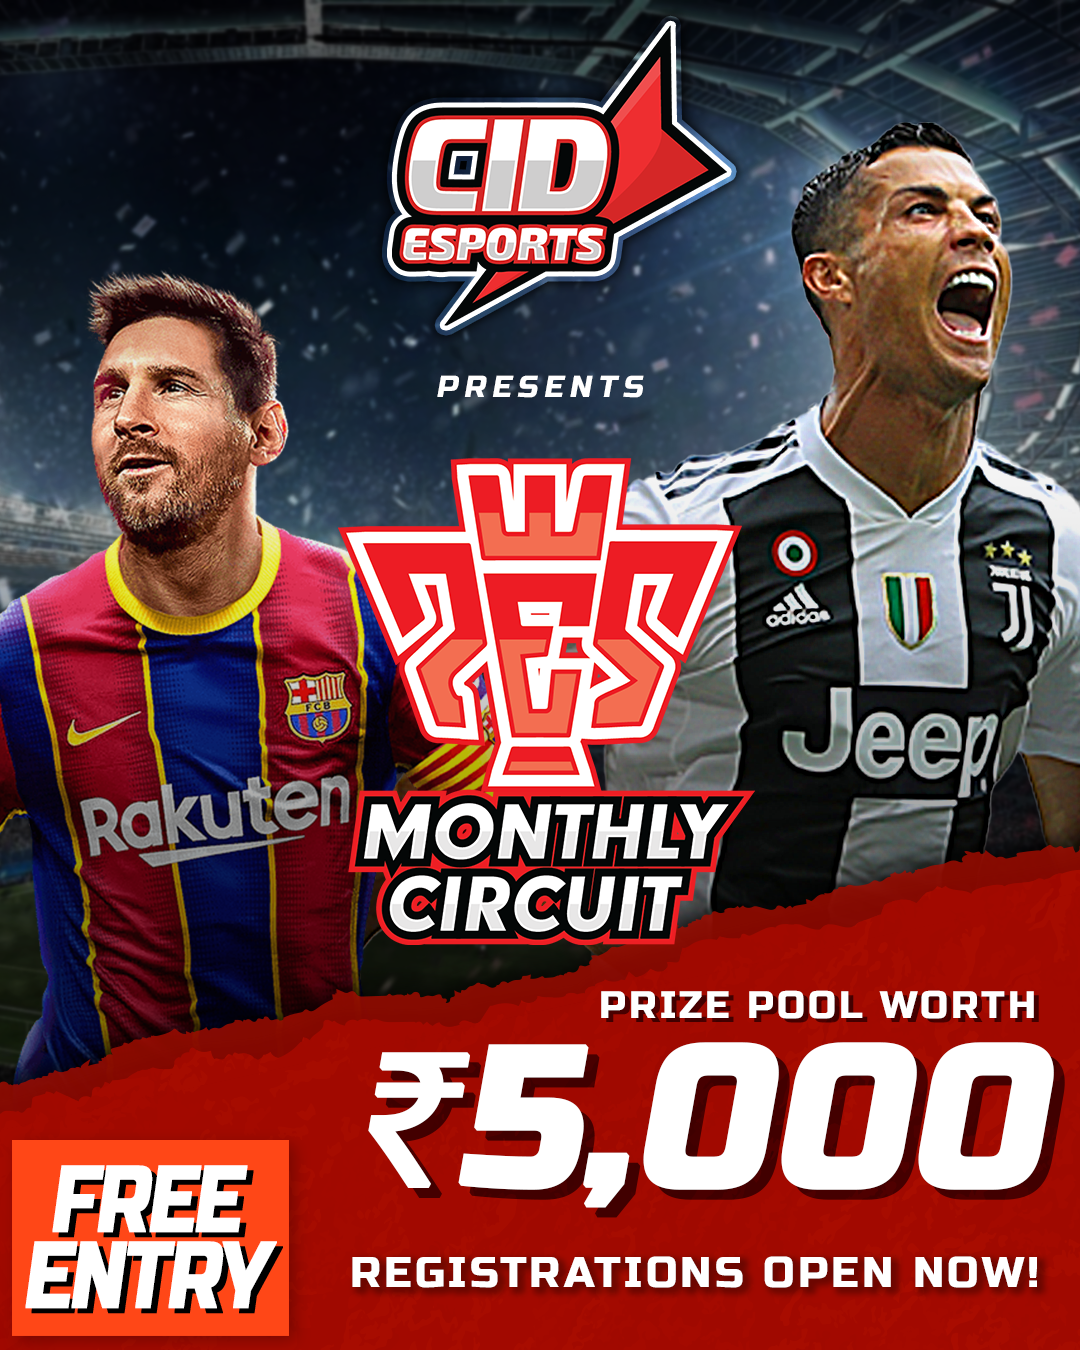
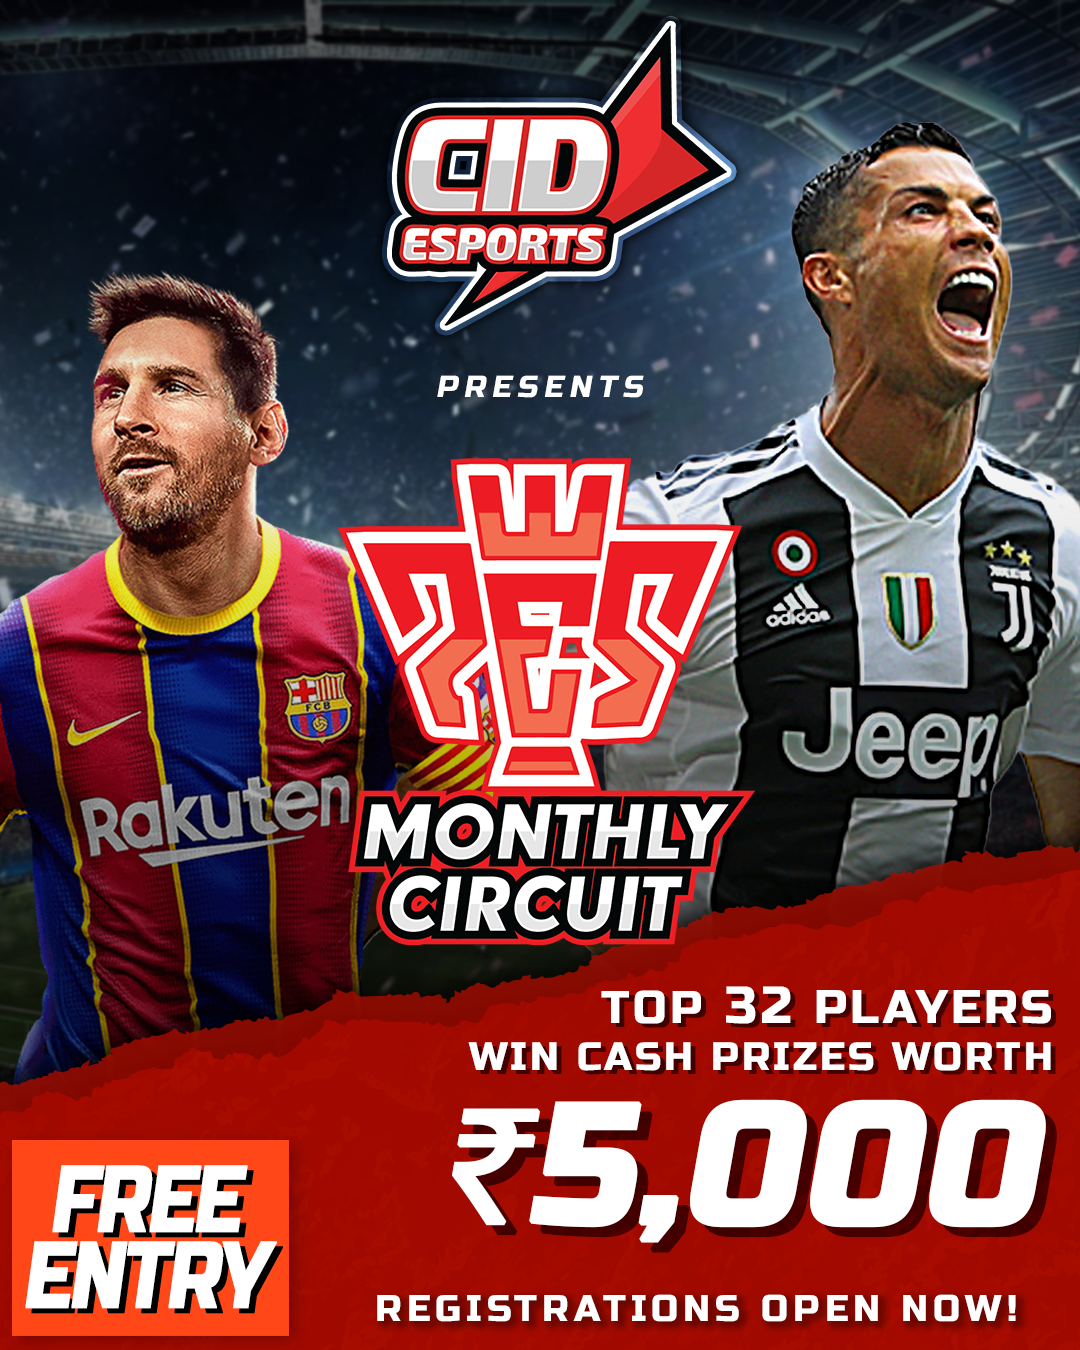
Updated Poster, content and registration links

Changed region(s): [[0.3056, 0.7156, 1.0, 0.9956]]

diff --git a/templates/home/home.html b/templates/home/home.html
@@ -95,20 +95,22 @@
           <div class="card-body">
             <h1><b>CID ESPORTS PES MAJOR - JAN</b></h1>
               <div class="card-text">
-                  <p class="card-text-content">Date: <b>29 - 30 January</b></p>
-                  <p class="card-text-content">Max Participants: <b>2048</b></p> 
-                  <p class="card-text-content">Timing: <b>11am - 11pm (Saturday & Sunday)</b></p>
-                  <p class="card-text-content">No of Prizes: <b>32 Cash Prizes</b></p>
-                  <p class="card-text-content">Prize Pool: <b>Rs 5000/-</b></p>
+                <p class="card-text-content">Prize Pool: <b>Rs 5000/-</b></p>
+                <p class="card-text-content">No of Prizes: <b>32 Cash Prizes</b></p>
+                <p class="card-text-content">Max Participants: <b>2048</b></p> 
+                <p class="card-text-content">Registration Deadline <b>28 January</b></p>
+                <p class="card-text-content">Starting Date: <b>29 January</b></p>
               </div>
             <div class="buttons">
+              <div class="d-grid gap-2">
+                <button class="btn btn-primary" type="button" style="width: 100%;">
+                  <a href="https://forms.gle/rnq8cu4hbDBSq6kh9" style="text-decoration:none" target="_blank">Register</a>
+                </button>
+              </div>
               <div class="d-grid gap-2"> 
                 <button type="button" class="btn btn-primary" data-bs-toggle="modal" data-bs-target="#exampleModalLong" style="width: 100%;">
                   Rules and Regulations
                 </button>
-              </div>
-              <div class="d-grid gap-2">
-                <button class="btn btn-primary" href="#" type="button" style="width: 100%;">Register</button>
               </div>
             </div>
           </div>
